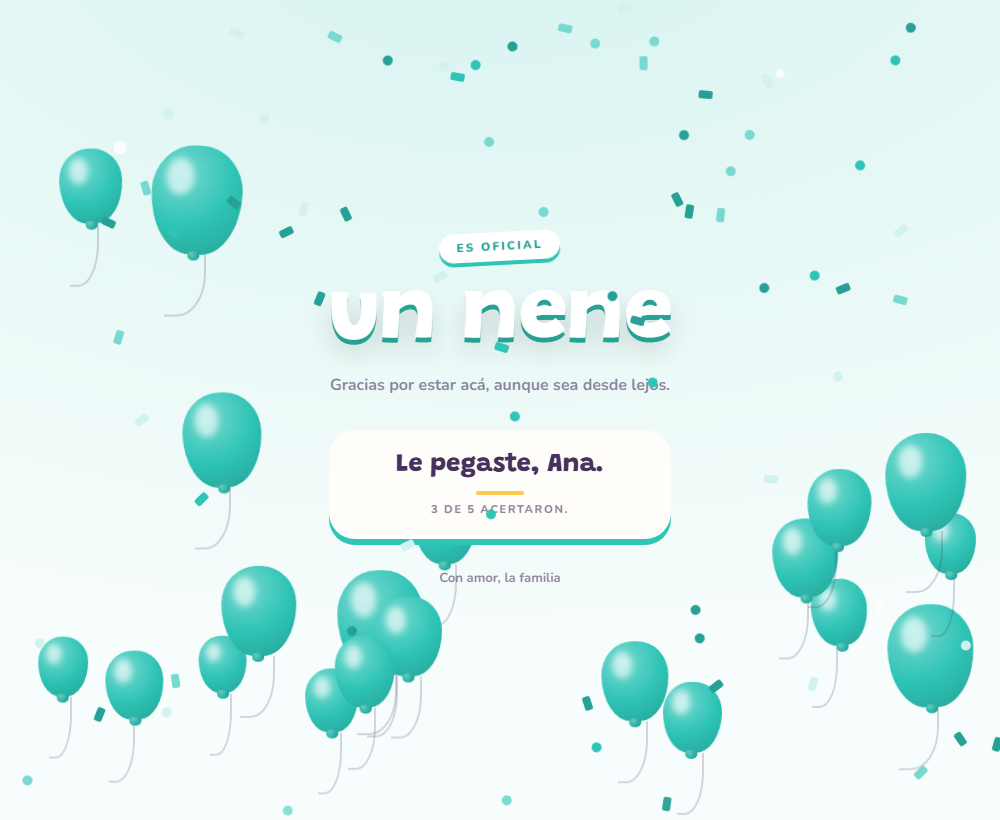
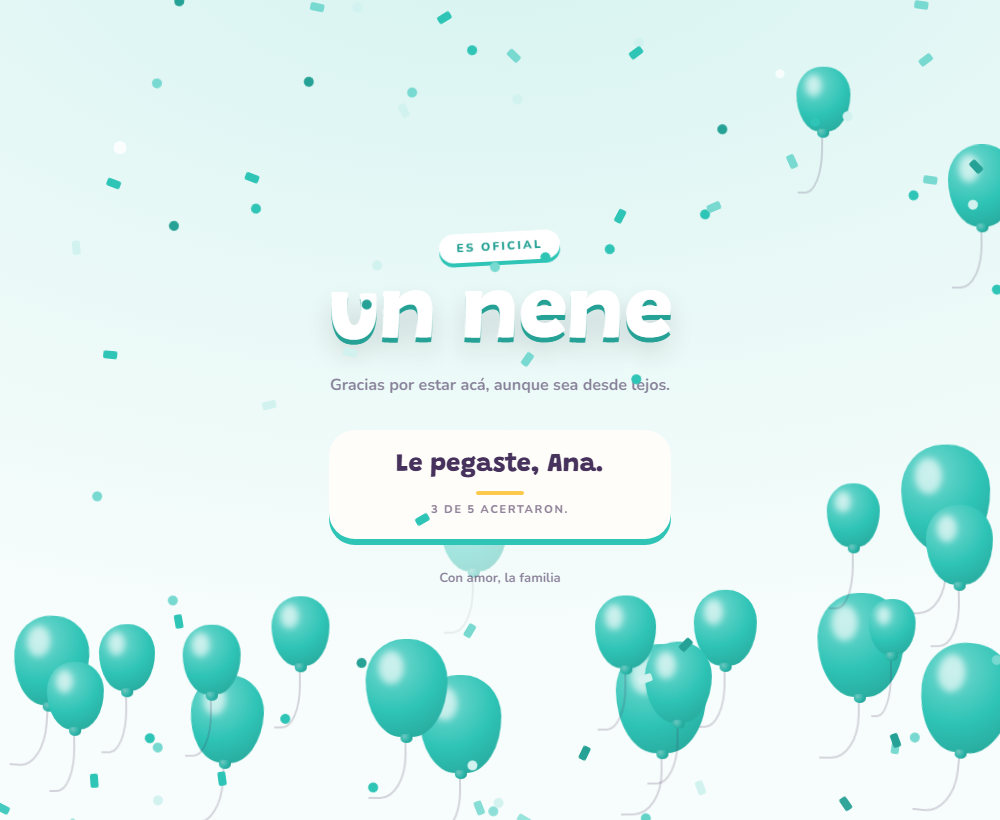
fix: keep the string attached to its balloon, and credit the author
The sway was applied to the balloon body, and the string is its sibling rather
than its child, so the body drifted sideways and left the string hanging in
mid-air. Both now sit inside one .balloon__sway element that carries the single
transform, which makes them rigid by construction rather than by coincidence.

Second defect visible in the same frame: the string's curve hangs off the right
edge of its box, and that edge sat at 73% of the balloon's width while the knot
is at 50%. The string grew out of the balloon's flank. Anchored to the knot.

Measured with a 1px probe pinned inside each element, since the centre of a 1px
box is invariant under rotation while getBoundingClientRect is not: across 20
balloons and 5.4s of live sway the join moves 0.00px. README screenshots
regenerated, because the old ones show the defect.

The home page also gains a credit line. It lives in app/page.tsx rather than
inside the Configurator so it cannot reach a countdown: /r/[hash] is a separate
route and never renders this tree. A guest's screen belongs to whoever threw
the party.

diff --git a/app/globals.css b/app/globals.css
@@ -140,13 +140,22 @@ p {
   to   { transform: translateY(-155vh); }
 }
 
+/* The balloon and its string sway as one piece.
+   The sway used to sit on the body alone, and since the string is its sibling
+   rather than its child, the body drifted off and left the string hanging in
+   mid-air. Anything that must move together belongs in the same transform. */
+.balloon__sway {
+  display: block;
+  transform-origin: 50% 40%;
+  animation: sway 4.5s ease-in-out infinite alternate;
+}
+
 .balloon__body {
   position: relative;
   display: block;
   width: 100%;
   aspect-ratio: 5 / 6;
   border-radius: 50% 50% 47% 47% / 45% 45% 62% 62%;
-  animation: sway 4.5s ease-in-out infinite alternate;
 }
 
 @keyframes sway {
@@ -179,11 +188,14 @@ p {
   filter: blur(3px);
 }
 
+/* The curve hangs off the right edge of this box, so that edge has to land on
+   the knot at 50%. It used to start at 73% and the string grew out of the
+   balloon's flank. */
 .balloon__string {
   display: block;
   width: 46%;
   height: 62px;
-  margin-left: 27%;
+  margin-left: 4%;
   border-right: 2px solid rgba(70, 50, 92, 0.2);
   border-bottom: 2px solid rgba(70, 50, 92, 0.2);
   border-radius: 0 0 70% 0;
@@ -211,7 +223,8 @@ p {
 
 /* The losing colour bursts where it floats, staggered so it reads as a ripple
    rather than every balloon vanishing on the same frame. */
-.balloon--popping {
+.balloon--popping,
+.balloon--popping .balloon__sway {
   animation-play-state: paused;
 }
 
@@ -871,7 +884,7 @@ p {
     top: var(--rest);
   }
 
-  .balloon__body {
+  .balloon__sway {
     animation: none !important;
   }
 
@@ -895,9 +908,12 @@ p {
    whatever two colours the creator picks.
    ───────────────────────────────────────────────────────────────────────── */
 
-.forge {
+/* The home page only: the form, then the credit under it. The paper sits on
+   the wrapper so the footer stands on the same sheet as the form. */
+.home {
+  display: flex;
+  flex-direction: column;
   min-height: 100dvh;
-  padding: clamp(1.5rem, 5vw, 3.5rem) 1.1rem clamp(3rem, 8vw, 5rem);
   background:
     radial-gradient(circle at 14% 12%, rgba(255, 255, 255, 0.8) 0 5px, transparent 6px),
     radial-gradient(circle at 82% 30%, rgba(255, 255, 255, 0.7) 0 4px, transparent 5px),
@@ -905,6 +921,31 @@ p {
     radial-gradient(150% 80% at 50% -14%, #ffeed9 0%, var(--cream) 55%, #fffaf2 100%);
   background-size: 280px 280px, 320px 320px, 300px 300px, cover;
   background-attachment: fixed;
+}
+
+.forge {
+  flex: 1;
+  padding: clamp(1.5rem, 5vw, 3.5rem) 1.1rem clamp(2rem, 6vw, 3rem);
+}
+
+.credit {
+  padding: 0 1.1rem clamp(1.6rem, 4vw, 2.4rem);
+  color: var(--ink-soft);
+  font-size: 0.8rem;
+  font-weight: 700;
+  text-align: center;
+}
+
+.credit a {
+  color: var(--ink);
+  text-decoration-color: var(--sun);
+  text-decoration-thickness: 3px;
+  text-underline-offset: 3px;
+  transition: color 180ms ease;
+}
+
+.credit a:hover {
+  color: var(--sun-deep);
 }
 
 .forge--done {

diff --git a/app/page.tsx b/app/page.tsx
@@ -10,10 +10,22 @@ export const metadata: Metadata = {
 
 export default function HomePage() {
   return (
-    <Configurator
-      defaults={defaultConfig}
-      maxHorizonDays={MAX_HORIZON_DAYS}
-      retentionDays={RETENTION_DAYS}
-    />
+    // The credit lives here rather than inside the Configurator so it cannot
+    // reach a countdown page: /r/[hash] is a different route and never renders
+    // this tree. A guest's screen belongs to whoever threw the party.
+    <div className="home">
+      <Configurator
+        defaults={defaultConfig}
+        maxHorizonDays={MAX_HORIZON_DAYS}
+        retentionDays={RETENTION_DAYS}
+      />
+
+      <footer className="credit">
+        Desarrollado por{' '}
+        <a href="https://nolmedo.dev/" target="_blank" rel="noopener noreferrer">
+          Nico Olmedo
+        </a>
+      </footer>
+    </div>
   )
 }

diff --git a/components/Balloons.tsx b/components/Balloons.tsx
@@ -133,10 +133,12 @@ function Floater({
         } as React.CSSProperties
       }
     >
-      <span className="balloon__body">
-        <span className="balloon__shine" />
+      <span className="balloon__sway">
+        <span className="balloon__body">
+          <span className="balloon__shine" />
+        </span>
+        <span className="balloon__string" />
       </span>
-      <span className="balloon__string" />
     </span>
   )
 }
